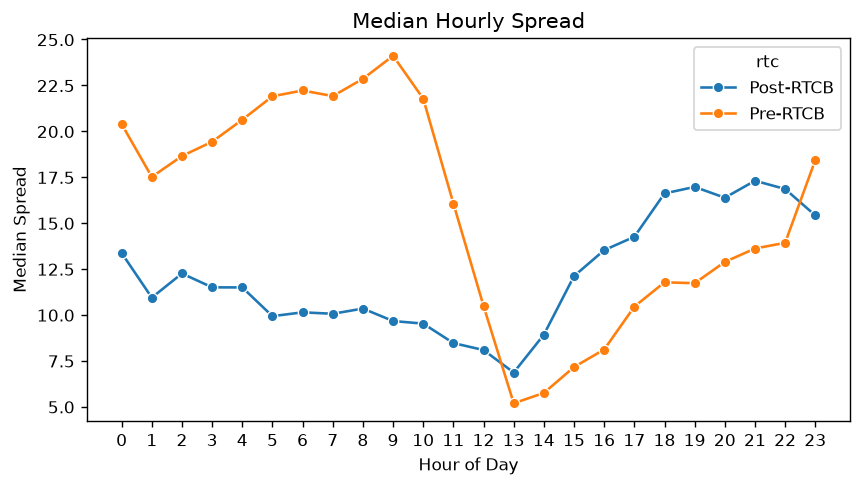
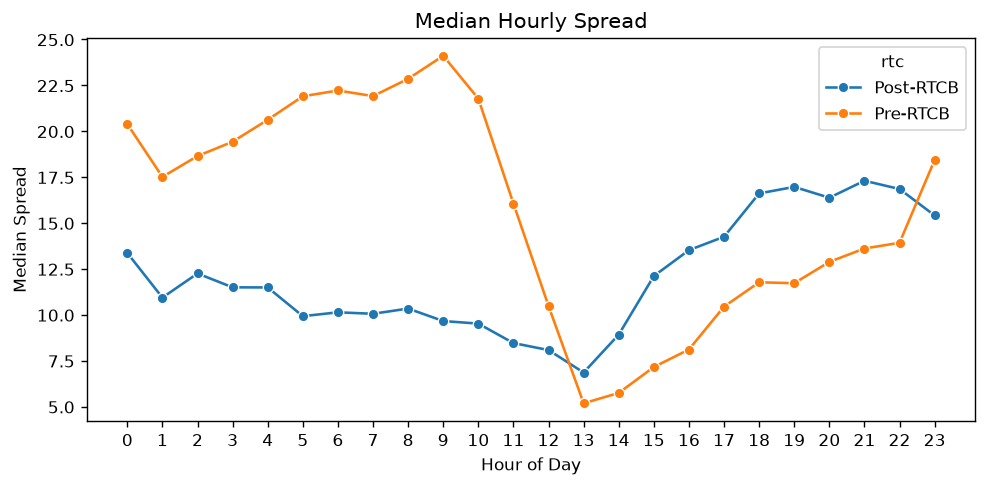
Update ERCOT anaylsis graph size 2

diff --git a/_site/projects/ercot_analysis.html b/_site/projects/ercot_analysis.html
@@ -136,25 +136,25 @@ ul.task-list li input[type="checkbox"] {
 </header>
 
 
-<div id="3d1f5909" class="cell" data-execution_count="14">
+<div id="3d1f5909" class="cell" data-execution_count="29">
 <div class="cell-output cell-output-display">
 <div>
 <figure class="figure">
-<p><img src="ercot_analysis_files/figure-html/cell-4-output-1.png" width="589" height="489" class="figure-img"></p>
+<p><img src="ercot_analysis_files/figure-html/cell-4-output-1.png" width="789" height="389" class="figure-img"></p>
 </figure>
 </div>
 </div>
 </div>
-<div id="10dffa51" class="cell" data-execution_count="15">
+<div id="10dffa51" class="cell" data-execution_count="30">
 <div class="cell-output cell-output-display">
 <div>
 <figure class="figure">
-<p><img src="ercot_analysis_files/figure-html/cell-5-output-1.png" width="689" height="389" class="figure-img"></p>
+<p><img src="ercot_analysis_files/figure-html/cell-5-output-1.png" width="789" height="389" class="figure-img"></p>
 </figure>
 </div>
 </div>
 </div>
-<div id="b855fad4" class="cell">
+<div id="b855fad4" class="cell" data-execution_count="31">
 <div class="cell-output cell-output-display">
 <div>
 <figure class="figure">
@@ -163,7 +163,7 @@ ul.task-list li input[type="checkbox"] {
 </div>
 </div>
 </div>
-<div id="0975004e" class="cell">
+<div id="0975004e" class="cell" data-execution_count="32">
 <div class="cell-output cell-output-display">
 <div>
 <figure class="figure">
@@ -172,11 +172,11 @@ ul.task-list li input[type="checkbox"] {
 </div>
 </div>
 </div>
-<div id="8eee979d" class="cell" data-execution_count="13">
+<div id="8eee979d" class="cell" data-execution_count="26">
 <div class="cell-output cell-output-display">
 <div>
 <figure class="figure">
-<p><img src="ercot_analysis_files/figure-html/cell-8-output-1.png" width="589" height="489" class="figure-img"></p>
+<p><img src="ercot_analysis_files/figure-html/cell-8-output-1.png" width="789" height="389" class="figure-img"></p>
 </figure>
 </div>
 </div>
